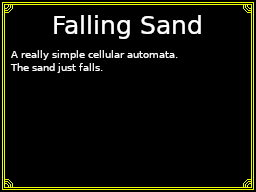
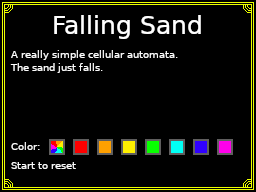
Selecting color

Changed region(s): [[0.1875, 0.7188, 0.9375, 0.8125], [0.0312, 0.8438, 0.3125, 0.9062], [0.0312, 0.75, 0.1562, 0.7812]]

diff --git a/source/main.c b/source/main.c
@@ -5,9 +5,13 @@
 
 #include "entries.h"
 #include "bgsub.h"
+#include "selector.h"
 
 #define WIDTH 256
 #define HEIGHT 192
+
+#define SELECTOR_Y 139
+#define SELECTOR_X 49
 
 int max(int x, int y) {
   if (x > y) return x;
@@ -26,6 +30,29 @@ void init_sub_bg() {
     dmaCopy(bgsubPal, BG_PALETTE_SUB, bgsubPalLen);
 }
 
+u16* selector_gfx;
+
+void copy_selector_gfx(int step) {
+  u8* src = (u8*)selectorTiles; // TODO anim
+  dmaCopy(src, selector_gfx, 16 * 16);
+}
+
+void init_selector_gfx() {
+  dmaCopy(selectorPal, SPRITE_PALETTE_SUB, selectorPalLen);
+  selector_gfx = oamAllocateGfx(&oamSub, SpriteSize_16x16, SpriteColorFormat_256Color);
+  copy_selector_gfx(0);
+}
+
+int selected = 0;
+
+void set_selector_gfx() {
+  int y = SELECTOR_Y;
+  int x = SELECTOR_X + selected * 24;
+  oamSet(&oamSub, SELECTOR_ENTRY, x, y, 0, 0,
+         SpriteSize_16x16, SpriteColorFormat_256Color, selector_gfx, -1,
+         false, false, false, false, false);
+}
+
 int get_pixel(int x, int y) {
   return VRAM_A[y * 256 + x];
 }
@@ -39,7 +66,7 @@ void clear_screen() {
 }
 
 void add_sand(int x, int y, int color) {
-  set_pixel(x, y, color);
+  if(!get_pixel(x, y)) set_pixel(x, y, color);
 }
 
 void update_cell(int x, int y) {
@@ -99,8 +126,24 @@ int hsv_to_rgb(int h, float v, float s) {
   return RGB15((int)((r1 + m) * 31), (int)((g1 + m) * 31), (int)((b1 + m) * 31));
 }
 
-void vblank() {
+int get_color() {
   static int current_hue;
+
+  switch(selected) {
+  case 1: return RGB15(31, 0, 0);
+  case 2: return RGB15(31, 15, 0);
+  case 3: return RGB15(31, 31, 0);
+  case 4: return RGB15(0, 31, 0);
+  case 5: return RGB15(0, 31, 31);
+  case 6: return RGB15(0, 0, 31);
+  case 7: return RGB15(31, 0, 31);
+  default:
+    current_hue = (current_hue+1)%360;
+    return hsv_to_rgb(current_hue, 1, 1);
+  }
+}
+
+void vblank() {
 
   scanKeys();
   int held = keysHeld();
@@ -109,13 +152,22 @@ void vblank() {
     touchPosition touch;
     touchRead(&touch);
 
-    int c = hsv_to_rgb(current_hue, 1, 1);
+    int c = get_color();
     for(int x = touch.px-1; x <= touch.px+1; x++) {
       for(int y = touch.py-1; y <= touch.py+1; y++) {
         add_sand(min(WIDTH-1, max(0, x)), min(HEIGHT-1, max(0, y)), c);
       }
     }
-    current_hue = (current_hue+1)%360;
+  }
+
+  int down = keysDown();
+  if(down & KEY_START) {
+    clear_screen();
+  }
+  if(down & KEY_LEFT) {
+    selected = (selected + 7) % 8;
+  } else if(down & KEY_RIGHT) {
+    selected = (selected + 1) % 8;
   }
 
   oamUpdate(&oamSub);
@@ -135,11 +187,13 @@ int main() {
   vramSetBankD(VRAM_D_SUB_SPRITE);
   init_sub_bg();
   oamInit(&oamSub, SpriteMapping_1D_32, false);
+  init_selector_gfx();
 
   irqSet(IRQ_VBLANK, vblank);
 
   while(true) {
     update_world();
+    set_selector_gfx();
     swiWaitForVBlank();
   }
 }

diff --git a/include/entries.h b/include/entries.h
@@ -1,4 +1,6 @@
 #ifndef ENTRIES_H_
 #define ENTRIES_H_
 
+#define SELECTOR_ENTRY 0
+
 #endif // ENTRIES_H_
